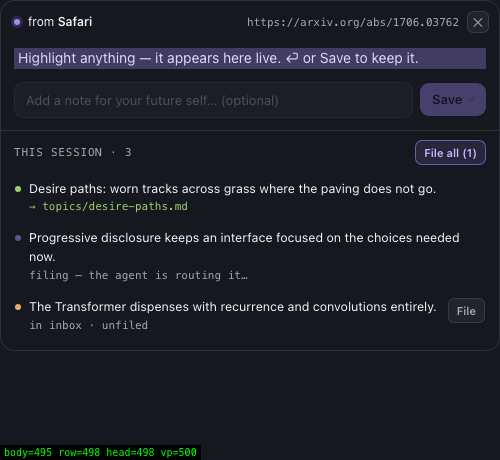
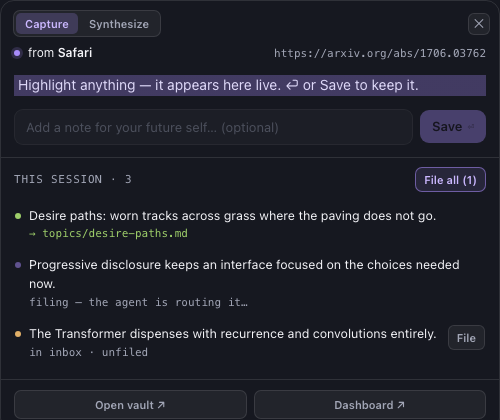
HUD: tabs on their own row, above the source line
The tab pair was sharing the header with the source app and URL, squeezing them
to "fro..." and "...hacksprint". Split into two rows: tabs and close on top, source
and URL beneath with the full width to themselves. Both rows stay draggable, and
the source row hides with the rest of the capture chrome on the dashboard tab.

Also marks the HUD's own chrome user-select:none (inputs excepted) — the
renderer was selecting its own label text, which showed as a blue overlay on the
violet highlight.

diff --git a/electron/hud.html b/electron/hud.html
@@ -17,6 +17,7 @@
   body {
     font: 14px/1.5 -apple-system, ui-sans-serif, system-ui, sans-serif;
     color: var(--fg); -webkit-font-smoothing: antialiased;
+    -webkit-user-select: none; user-select: none;
     display: flex; flex-direction: column;
     border-radius: 14px; border: 1px solid var(--line);
     background: rgba(18,19,26,0.58);
@@ -26,8 +27,15 @@
 
   header {
     -webkit-app-region: drag; overflow: hidden;
-    display: flex; align-items: center; gap: 8px; padding: 10px 10px 10px 13px; flex: none;
+    display: flex; align-items: center; gap: 8px;
+    padding: 9px 9px 7px 12px; flex: none;
   }
+  .srcrow {
+    -webkit-app-region: drag; overflow: hidden;
+    display: flex; align-items: center; gap: 8px;
+    padding: 0 13px 8px; flex: none;
+  }
+  .srcrow.hide { display: none !important; }
   .dot { width: 6px; height: 6px; border-radius: 50%; background: var(--violet); flex: none;
          box-shadow: 0 0 0 3px rgba(167,139,250,0.18); }
   .src { font-size: 12px; color: var(--fg); white-space: nowrap; overflow: hidden;
@@ -38,10 +46,10 @@
          text-overflow: ellipsis; direction: rtl; text-align: right; }
   .x { -webkit-app-region: no-drag; flex: none; width: 22px; height: 22px; border-radius: 6px;
        border: 1px solid var(--line); background: rgba(255,255,255,0.05); color: var(--dim);
-       font: 13px/1 -apple-system, system-ui; cursor: pointer; padding: 0; }
+       font: 13px/1 -apple-system, system-ui; cursor: pointer; padding: 0; margin-left: auto; }
   .x:hover { background: rgba(247,118,142,0.16); color: #ffb3c0; border-color: rgba(247,118,142,.4); }
 
-  .tabs { -webkit-app-region: no-drag; display: flex; gap: 2px; margin-left: 4px;
+  .tabs { -webkit-app-region: no-drag; display: flex; gap: 2px;
           background: rgba(255,255,255,.05); border: 1px solid var(--line);
           border-radius: 7px; padding: 2px; flex: none; }
   .tab { border: 0; background: transparent; color: var(--dim); cursor: pointer;
@@ -67,7 +75,7 @@
   @keyframes breathe { 50% { opacity: .5; } }
 
   .row { -webkit-app-region: no-drag; display: flex; align-items: center; gap: 7px; padding: 10px 13px 12px; }
-  input {
+  input { -webkit-user-select: text; user-select: text;
     flex: 1 1 auto; min-width: 0;
     background: rgba(255,255,255,.06); color: var(--fg);
     border: 1px solid var(--line); border-radius: 9px; padding: 9px 11px;
@@ -140,15 +148,17 @@
 </head>
 <body>
   <header>
-    <span class="dot"></span>
-    <span class="src" id="src">inbox</span>
     <span class="tabs">
       <button class="tab on" id="tabCap">Capture</button>
       <button class="tab" id="tabDash">Synthesize</button>
     </span>
-    <span class="url" id="url"></span>
     <button class="x" id="close" title="Close (esc)">✕</button>
   </header>
+  <div class="srcrow" id="srcrow">
+    <span class="dot"></span>
+    <span class="src" id="src">inbox</span>
+    <span class="url" id="url"></span>
+  </div>
 
   <div class="capture" id="cap">
     <span class="mark empty" id="mark">Highlight anything — it appears here live. ⏎ or Save to keep it.</span>
@@ -329,7 +339,7 @@ function setTab(next) {
   $('foot').classList.toggle('hide', dash);
   $('sess').classList.toggle('hide', dash);
   $('dash').classList.toggle('on', dash);
-  $('url').classList.toggle('hide', dash);
+  $('srcrow').classList.toggle('hide', dash);
   if (dash) {
     // load lazily so the capture tab never waits on the server
     if ($('dashFrame').src === 'about:blank') $('dashFrame').src = 'http://localhost:3737/?embed=1';
